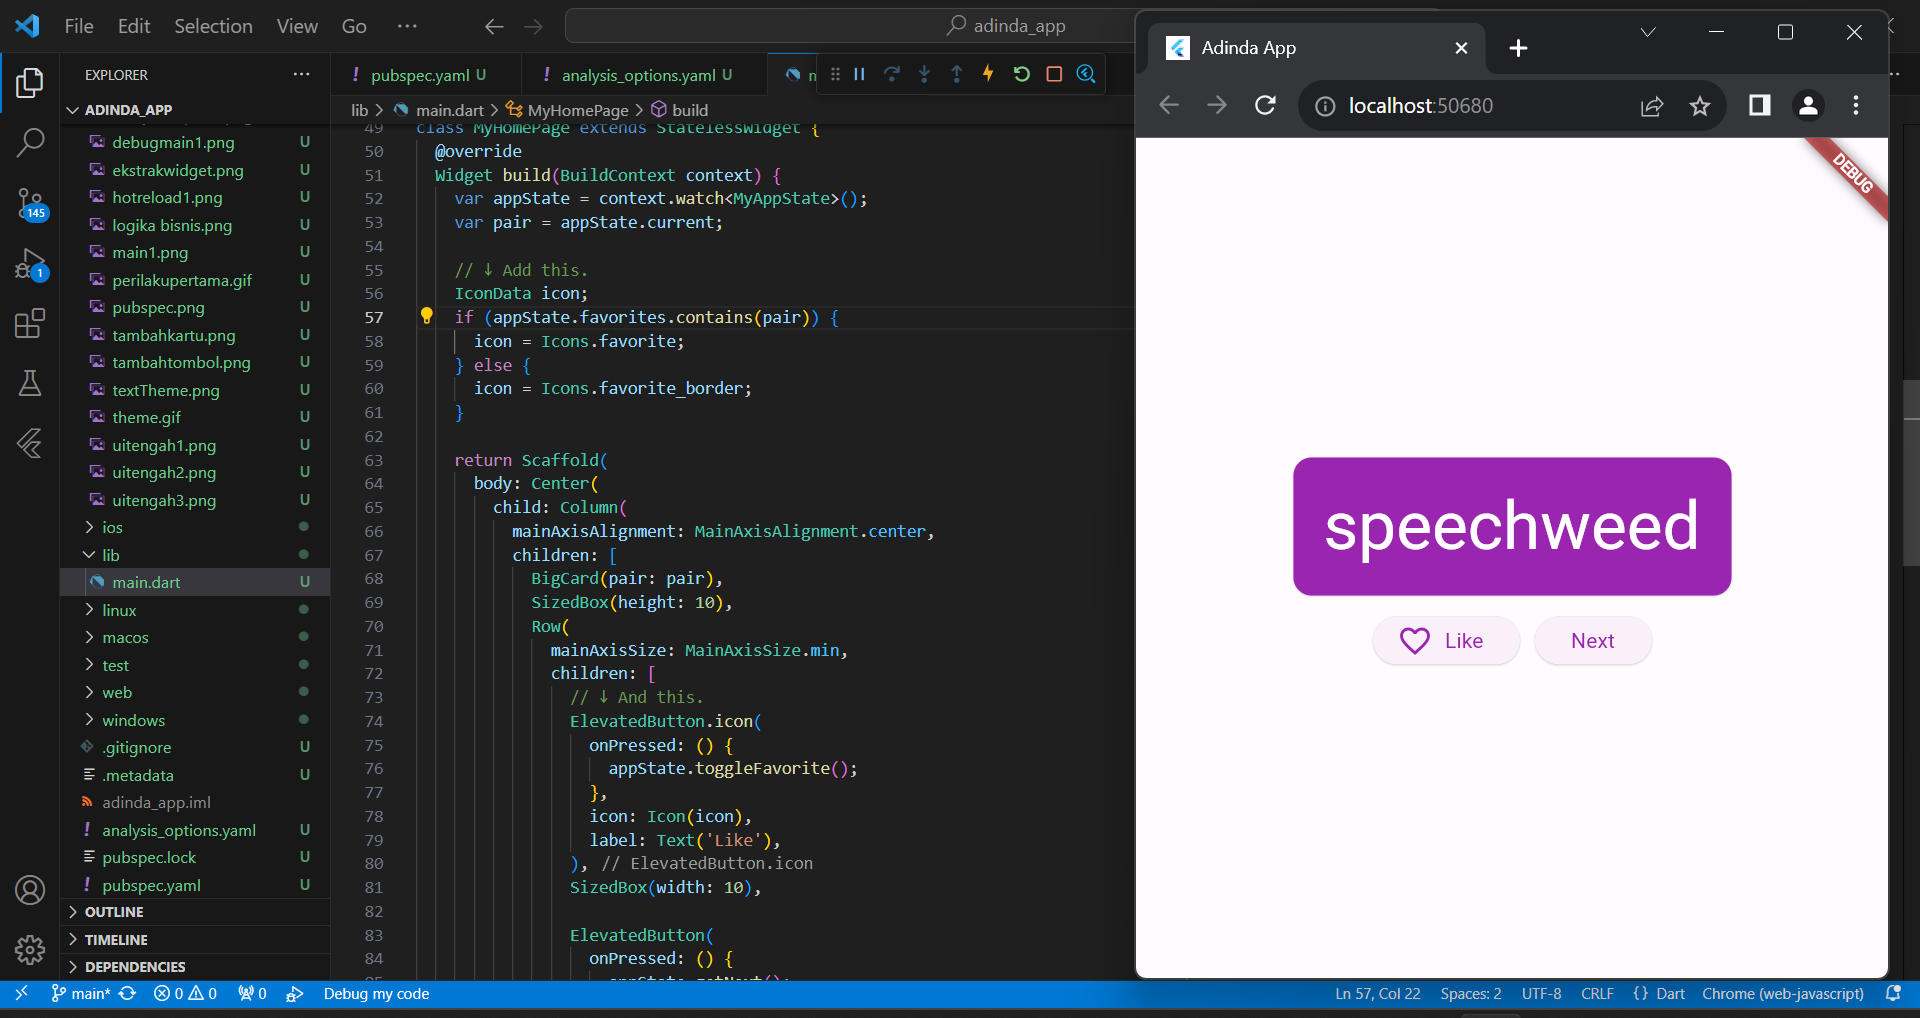
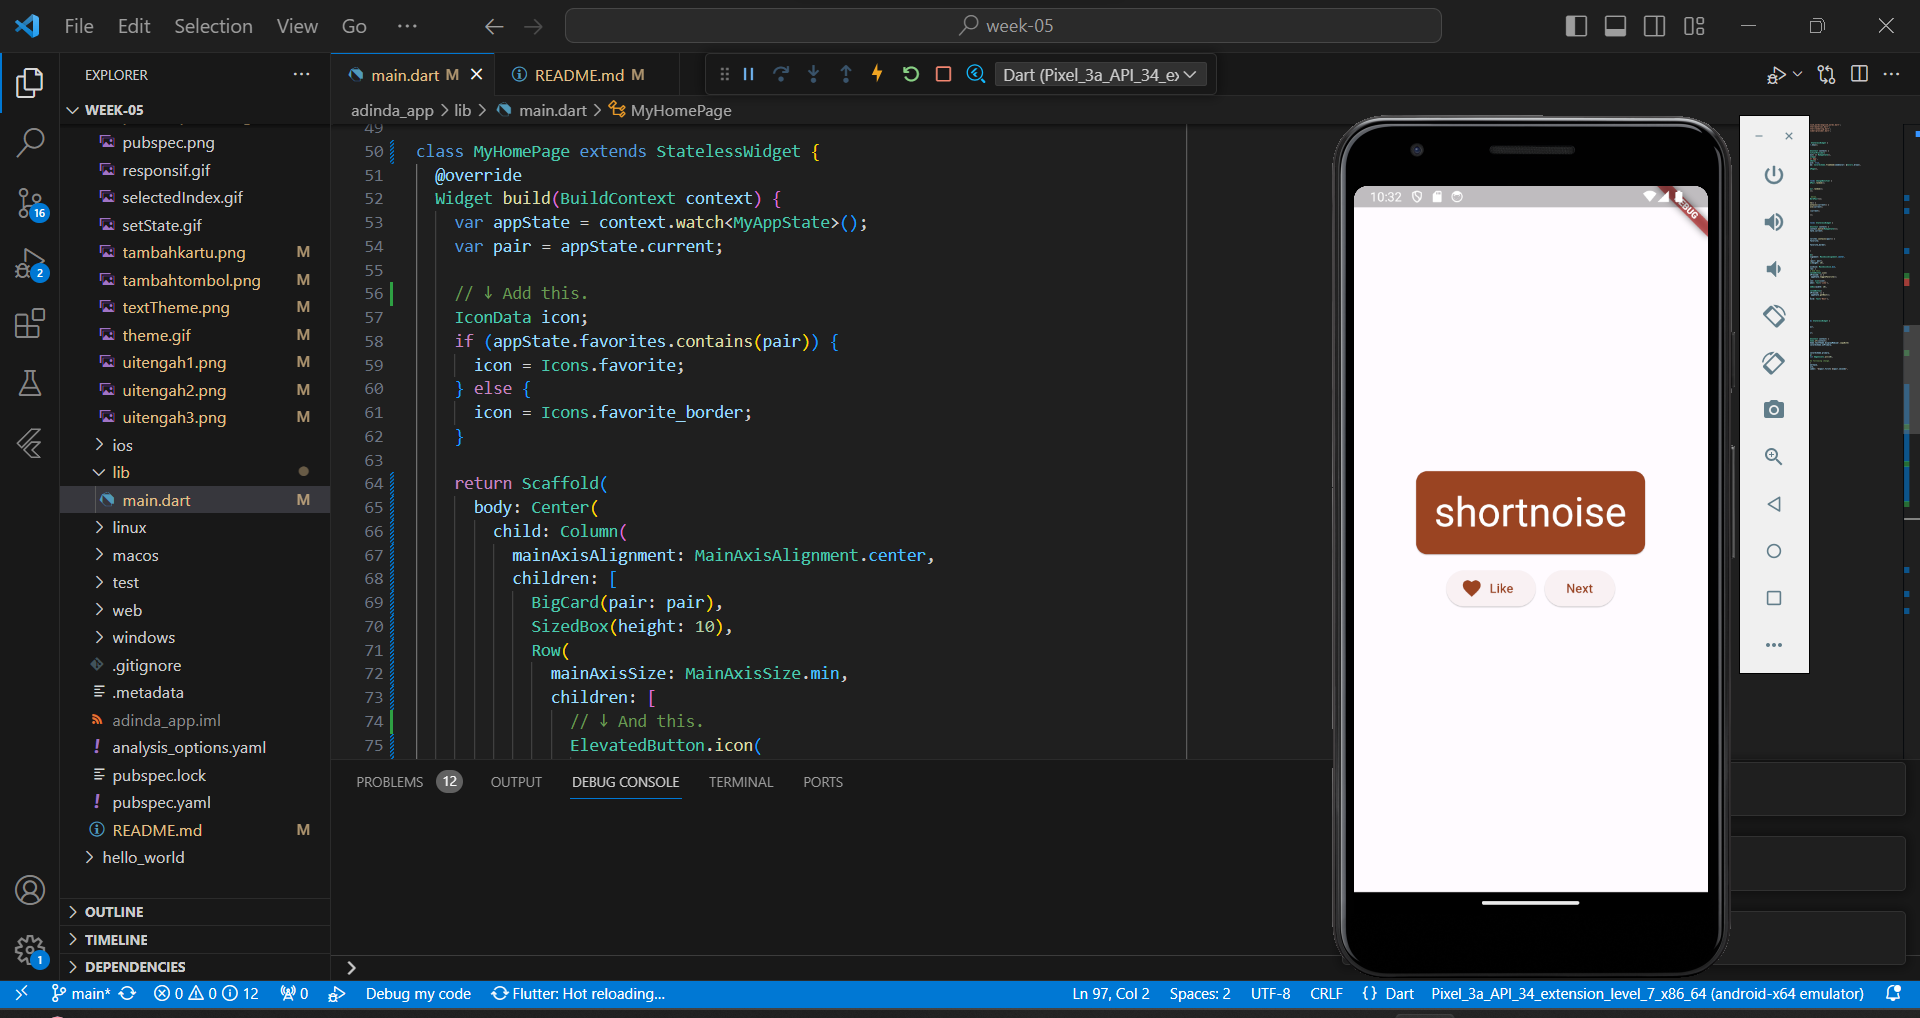
update

diff --git a/week-05/adinda_app/lib/main.dart b/week-05/adinda_app/lib/main.dart
@@ -15,10 +15,10 @@ class MyApp extends StatelessWidget {
     return ChangeNotifierProvider(
       create: (context) => MyAppState(),
       child: MaterialApp(
-        title: 'Adinda App',
+        title: 'Namer App',
         theme: ThemeData(
           useMaterial3: true,
-          colorScheme: ColorScheme.fromSeed(seedColor: Colors.purple),
+          colorScheme: ColorScheme.fromSeed(seedColor: Colors.brown),
         ),
         home: MyHomePage(),
       ),
@@ -28,7 +28,7 @@ class MyApp extends StatelessWidget {
 
 class MyAppState extends ChangeNotifier {
   var current = WordPair.random();
-  // add this code
+
   void getNext() {
     current = WordPair.random();
     notifyListeners();
@@ -42,8 +42,9 @@ class MyAppState extends ChangeNotifier {
   var optionBSelected = false;
   var loadingFromNetwork = false;
 
-  // add this code
+  // ↓ Add the code below.
   //var favorites = <WordPair>[];
+
   void toggleFavorite() {
     if (favorites.contains(current)) {
       favorites.remove(current);
@@ -61,7 +62,6 @@ class MyHomePage extends StatefulWidget {
 
 class _MyHomePageState extends State<MyHomePage> {
   var selectedIndex = 0;
-
   @override
   Widget build(BuildContext context) {
     Widget page;
@@ -75,7 +75,6 @@ class _MyHomePageState extends State<MyHomePage> {
       default:
         throw UnimplementedError('no widget for $selectedIndex');
     }
-
     return LayoutBuilder(builder: (context, constraints) {
       return Scaffold(
         body: Row(
@@ -104,7 +103,7 @@ class _MyHomePageState extends State<MyHomePage> {
             Expanded(
               child: Container(
                 color: Theme.of(context).colorScheme.primaryContainer,
-                child: page, // Gunakan variabel 'page' di sini.
+                child: page,
               ),
             ),
           ],
@@ -154,7 +153,6 @@ class GeneratorPage extends StatelessWidget {
     } else {
       icon = Icons.favorite_border;
     }
-
     return Center(
       child: Column(
         mainAxisAlignment: MainAxisAlignment.center,
@@ -196,18 +194,17 @@ class BigCard extends StatelessWidget {
 
   @override
   Widget build(BuildContext context) {
-    final theme = Theme.of(context); // add new code
-    // add this code
+    final theme = Theme.of(context);
     final style = theme.textTheme.displayMedium!.copyWith(
       color: theme.colorScheme.onPrimary,
     );
 
     return Card(
-      color: theme.colorScheme.primary, // add new code
+      color: theme.colorScheme.primary,
       child: Padding(
         padding: const EdgeInsets.all(20),
 
-        // add this code
+        // ↓ Make the following change.
         child: Text(
           pair.asLowerCase,
           style: style,

diff --git a/week-05/adinda_app/README.md b/week-05/adinda_app/README.md
@@ -25,7 +25,7 @@ dimana setiap menekan tombol Next maka akan menghasilkan pasangan kata acak yang
 ![Alt text](images/perilakupertama.gif)
 
 ### Langkah 3 : Memperindah Tampilan Aplikasi
-- Mengkstrak Widget
+- Mengekstrak Widget
 ![Alt text](images/ekstrakwidget.png)
 
 - Menambahkan Kartu
